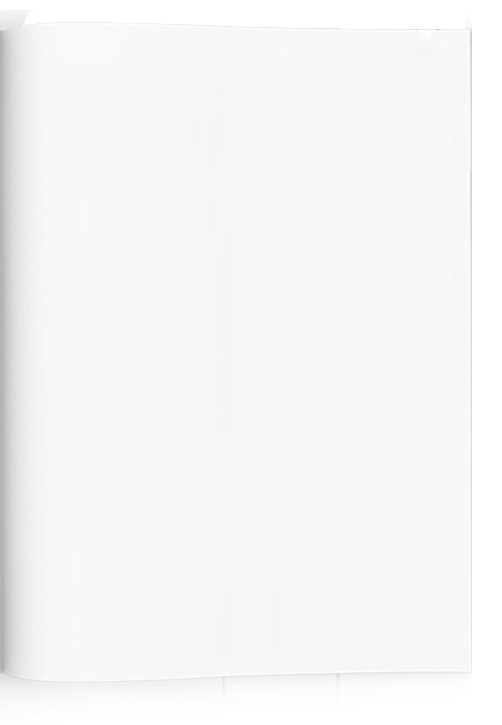
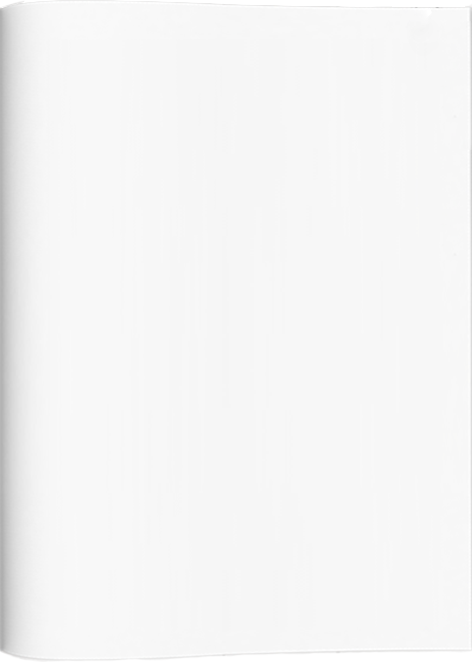
特色产品

diff --git a/featureProduct.html b/featureProduct.html
@@ -1,0 +1,95 @@
+<!DOCTYPE html>
+<html lang="en">
+<head>
+	<meta charset="UTF-8">
+	<title>特色产品</title>
+	<link rel="stylesheet" href="css/base.css">
+	<link rel="stylesheet" href="css/featureProduct.css">
+</head>
+<body>
+<div class="dl">
+    <div class="dl_detail">
+       <div class="current">
+			<div class="left location">
+				<span>当前位置 > <a href="###">栾川印象</a> > </span><span class="currentLocation"><a href="###">特色产品</a></span>	
+			</div>
+			<div class="right time">
+				<span>现在时间：</span><span class="datetime" id="datetime"></span>
+			</div>
+		</div>
+        <div class="detail_center">
+            <div class="top">
+                <!-- <img src="img/1.jpg"> -->
+                特色产品
+            </div>
+            <div class="center">
+                <ul>
+                    <li>
+                    <img src="images/tsfp12.png">
+                    <a href="##">玉米糁系列</a>
+                    </li>
+                    <li>
+                    <img src="images/tsfp13.png">
+                    <a href="##">槲包系列</a>
+                    </li>
+                    <li>
+                    <img src="images/tsfp12.png">
+                    <a href="##">面类系列</a>
+                    </li>
+                    <li>
+                    <img src="images/tsfp13.png">
+                    <a href="##">养生茶系列</a>
+                    </li>
+                    <li>
+                    <img src="images/tsfp12.png">
+                    <a href="##">养生粉系列</a>
+                    </li>
+                    <li>
+                    <img src="images/tsfp13.png">
+                    <a href="##">卤制品系列</a>
+                    </li>
+                    <li>
+                    <img src="images/tsfp12.png">
+                    <a href="##">养生粉系列</a>
+                    </li>
+                    <li>
+                    <img src="images/tsfp13.png">
+                    <a href="##">卤制品系列</a>
+                    </li>
+                    <li>
+                   <img src="images/tsfp12.png">
+                   <a href="##">其他</a>
+                   </li>
+                </ul>
+            </div>
+           <!--  <div class="footer">
+               <ul>
+                   <li>
+                   <img src="images/tsfp12.png">
+                   <a href="##">柿子醋系列</a>
+                   </li>
+                   <li>
+                   <img src="images/tsfp13.png">
+                   <a href="##">核桃油系列</a>
+                   </li>
+                   <li>
+                   <img src="images/tsfp12.png">
+                   <a href="##">其他</a>
+                   </li>
+               </ul>
+           </div> -->
+            <div class="detail_footer">
+                <div class="footer_top">
+                    <!-- <img src="img/12.jpg"> -->
+                    营销网络
+                </div>
+                <div class=footer_last>
+                     <iframe align="center" width="724px" height="400px" src="usMap.html" frameborder="no" border="0" marginwidth="0" marginheight="0" scrolling="no"></iframe>
+                </div>
+			</div>
+		</div>
+	</div>
+</div>
+</body>
+<script src="js/navDate.js"></script>
+</html>

diff --git a/css/featureProduct.css b/css/featureProduct.css
@@ -1,0 +1,112 @@
+body{
+	background-color: #daeae0;
+}
+.dl{
+	width: 1000px;
+	height:1550px;
+	margin:0 auto; 
+	background-color:#daeae0;
+
+}
+.dl_detail{
+	width: 1000px;
+	height:1550px;
+	margin:0 auto;
+}
+.detail_center{
+	background-color: #ffffff;
+	padding: 10px 0;
+}
+
+.top{
+	background:url(../images/FPBg_1.png) no-repeat;
+	background-size: 100% 100%;    
+	
+}
+.center{
+	/* width: 730px;
+	height: 390px; */
+	margin-top: 0px;
+	overflow: hidden;
+}
+ .center ul{
+	list-style: none;
+	padding-left: 0px;
+}
+
+ .center  li {
+    float: left;
+ 	width: 300px;
+ 	height: 200px;
+    text-align: center;
+    margin-left:10px;
+    margin-bottom: 100px;
+}
+ .center img{
+ 	width:300px; 
+ 	height:200px;
+    margin-left:15px;
+    margin-bottom: 20px;
+    -webkit-box-reflect: below 0px -webkit-gradient(linear, left top, left bottom, from(transparent),color-stop(70%, transparent) ,to(rgba(250, 250, 250, 0.4)));
+}
+
+ .center a{
+ 	text-decoration: none;
+ 	color: black;
+ 	font: 400 20px/20px "Arial";
+ }
+ .footer{
+    width: 730px;
+    height:200px;
+    margin-top: 0px;
+ }
+ .footer ul{
+	list-style: none;
+	padding-left: 0px;
+}
+.footer  li {
+    float: left;
+ 	width: 230px;
+ 	height: 200px;
+    text-align: center;
+    margin-left:10px;
+}
+ .footer img{
+ 	width:200px; 
+ 	height:130px;
+    margin-left:15px;
+    margin-bottom: 20px;
+ }
+ .footer a{
+ 	text-decoration: none;
+ 	color: black;
+ 	font: 400 20px/20px "Arial";
+
+}
+.detail_footer{
+	width: 730px;
+	height: 600px;
+	margin:50px auto;
+	background-color: #ffffff;
+}
+.footer_top{
+	background:url(../images/FPBg_2.png) no-repeat;
+	background-size: 100% 100%;
+}
+.top,.footer_top{
+	width: 330px;
+	height: 100px;
+	margin: 30px auto;
+	font: 600 25px/100px 微软雅黑;
+    text-indent: 120px;
+    color: #000;
+}
+.footer_last{
+	width: 724px;
+	height: 400px;
+	margin-top: 0px;
+	border-top: 3px solid #fafee5;
+	border-left: 3px solid #fafee5;
+	border-right:3px solid  #d3d3ad ;
+	border-bottom: 3px solid  #d3d3ad ;	
+}

diff --git a/css/jquery.booklet.latest.css b/css/jquery.booklet.latest.css
@@ -21,8 +21,8 @@
 	   
    	/* Page Wrappers */
 	.booklet .b-wrap       {top:0; position:absolute;}
-	.booklet .b-wrap-left  {background: url(../images/left_bg1.png) no-repeat 0px -5px;background-size: 100% 103%;}
-	.booklet .b-wrap-right {background: url(../images/right_bg1.png) no-repeat 0px -7px;background-size: 100% 112%;}
+	.booklet .b-wrap-left  {background: url(../images/left_bg.png) no-repeat 0px -5px;background-size: 100% 103%;}
+	.booklet .b-wrap-right {background: url(../images/right_bg.png) no-repeat 0px -7px;background-size: 100% 112%;}
 	
 	.booklet .b-pN .b-wrap,
 	.booklet .b-p1 .b-wrap,

diff --git a/bigThing.html b/bigThing.html
@@ -14,7 +14,7 @@
 				<span>当前位置 > <a href="###">产业扶贫</a> > </span><span class="currentLocation"><a href="###">特色扶贫</a></span>	
 			</div>
 			<div class="right time">
-				<span>现在时间：</span><span class="datetime" id="datetime">日期</span>
+				<span>现在时间：</span><span class="datetime" id="datetime"></span>
 			</div>
 		</div>
 		<div class="big_thing">
